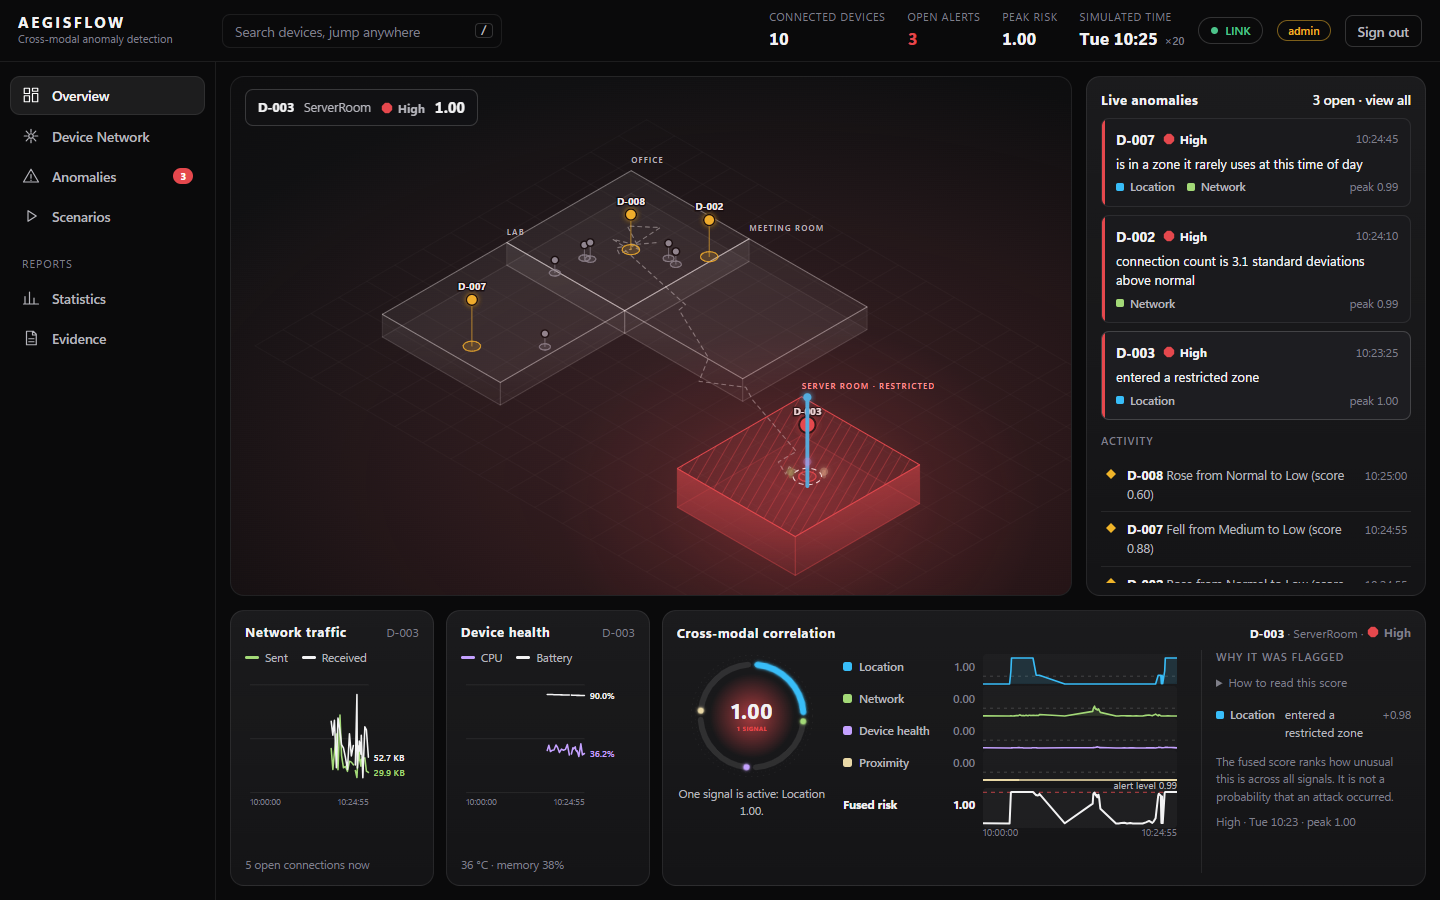
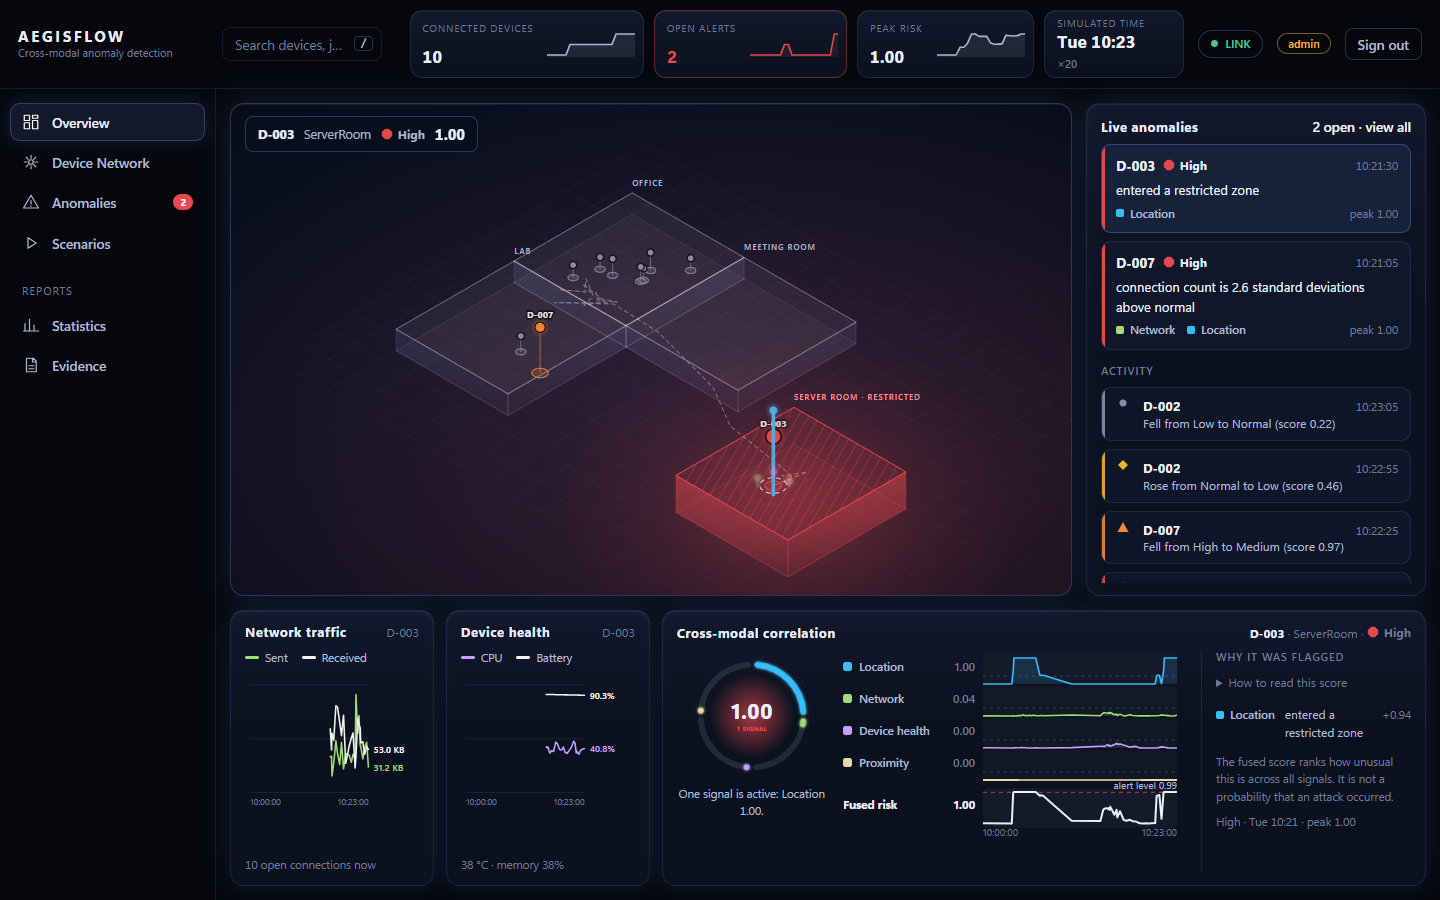
Live anomalies: activity items are soft cards with a severity rail, device on top and the event beneath; screenshots regenerated

diff --git a/frontend/src/styles.css b/frontend/src/styles.css
@@ -414,3 +414,15 @@ table.data tr.sel td { background: var(--accent-soft); }
 .kpis dt { white-space: nowrap; font-size: 10px; }
 .kpis > div { padding: 5px 12px; }
 .kpis dd small { margin-left: 2px; }
+
+/* live anomalies: each item is a soft card with a severity rail, the device on top and what happened beneath */
+.activity { gap: 8px; }
+.activity li { list-style: none; }
+.activity button { position: relative; overflow: hidden; grid-template-columns: 16px 1fr auto; align-items: start; gap: 4px 10px; padding: 9px 12px 9px 15px; border: 1px solid var(--line); border-radius: 10px; background: rgba(18, 26, 45, 0.55); }
+.activity button::before { content: ''; position: absolute; left: 0; top: 0; bottom: 0; width: 3px; background: var(--c, var(--sev-normal)); opacity: 0.9; }
+.activity button:hover, .activity button[aria-pressed='true'] { background: rgba(40, 60, 105, 0.45); border-color: var(--line-strong); }
+.activity .a-body { display: flex; flex-direction: column; min-width: 0; line-height: 1.35; }
+.activity .a-body b { font-size: 13px; }
+.activity .a-text { color: var(--ink2); font-size: 12px; }
+.activity .meta { font-size: 11.5px; padding-top: 1px; }
+.acard { border-radius: 10px; }

diff --git a/frontend/src/components/Panels.tsx b/frontend/src/components/Panels.tsx
@@ -110,7 +110,7 @@ export function AnomalyFeed({ alerts, feed, selected, onSelect, onOpenAll, devic
               <li key={f.id}>
                 <button className={`sev-${f.severity}`} onClick={() => onSelect(f.device_id)} aria-pressed={selected === f.device_id}>
                   {f.kind === 'observability' ? <DegradedBadge label={false} /> : <SeverityBadge severity={f.severity} label={false} />}
-                  <span className="a-body"><b>{f.device_id}</b> {f.text}</span>
+                  <span className="a-body"><b>{f.device_id}</b> <span className="a-text">{f.text}</span></span>
                   <span className="meta">{siteTime(f.ts)}</span>
                 </button>
               </li>
